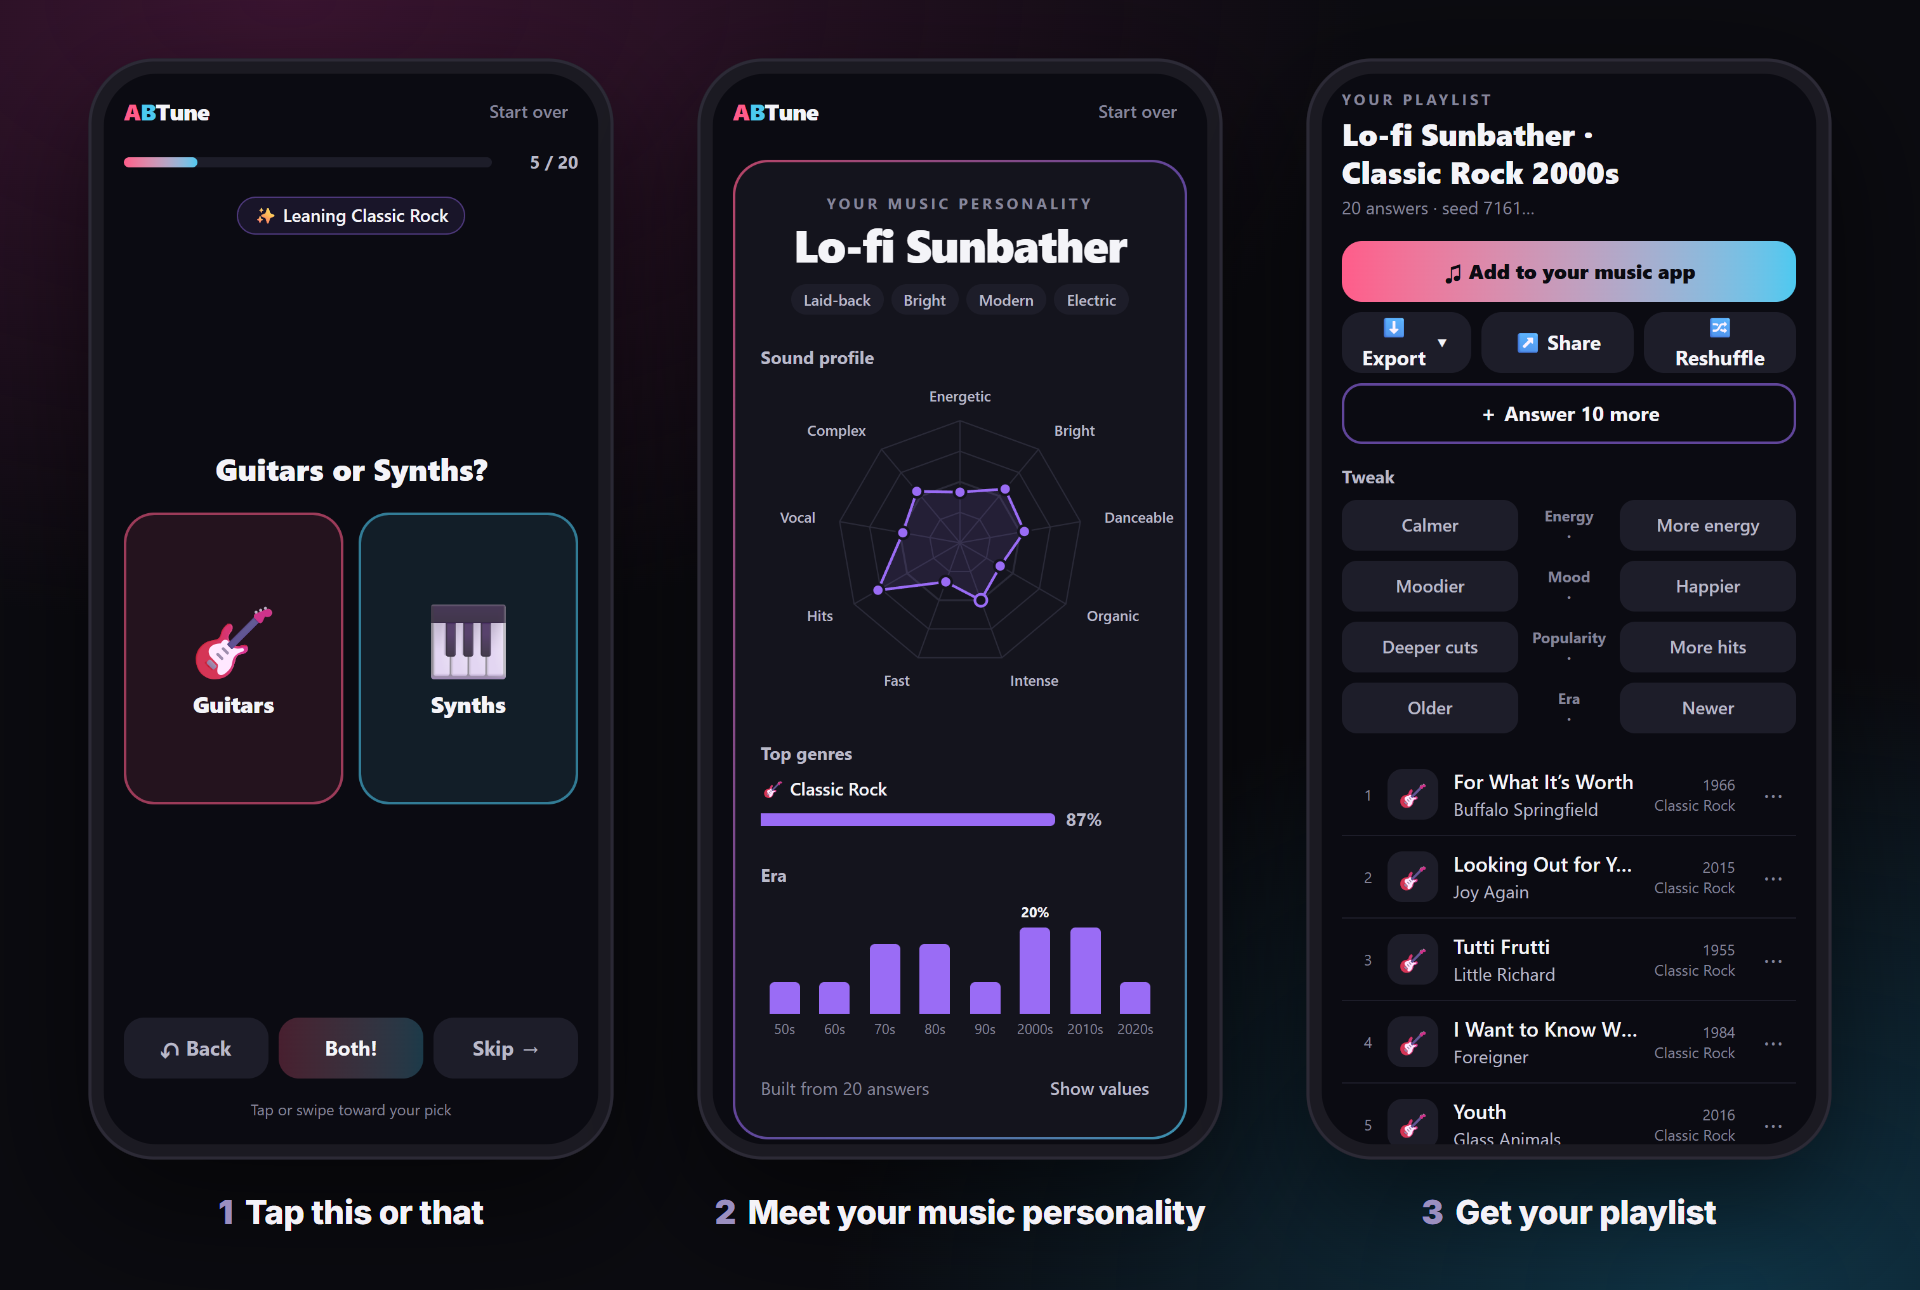
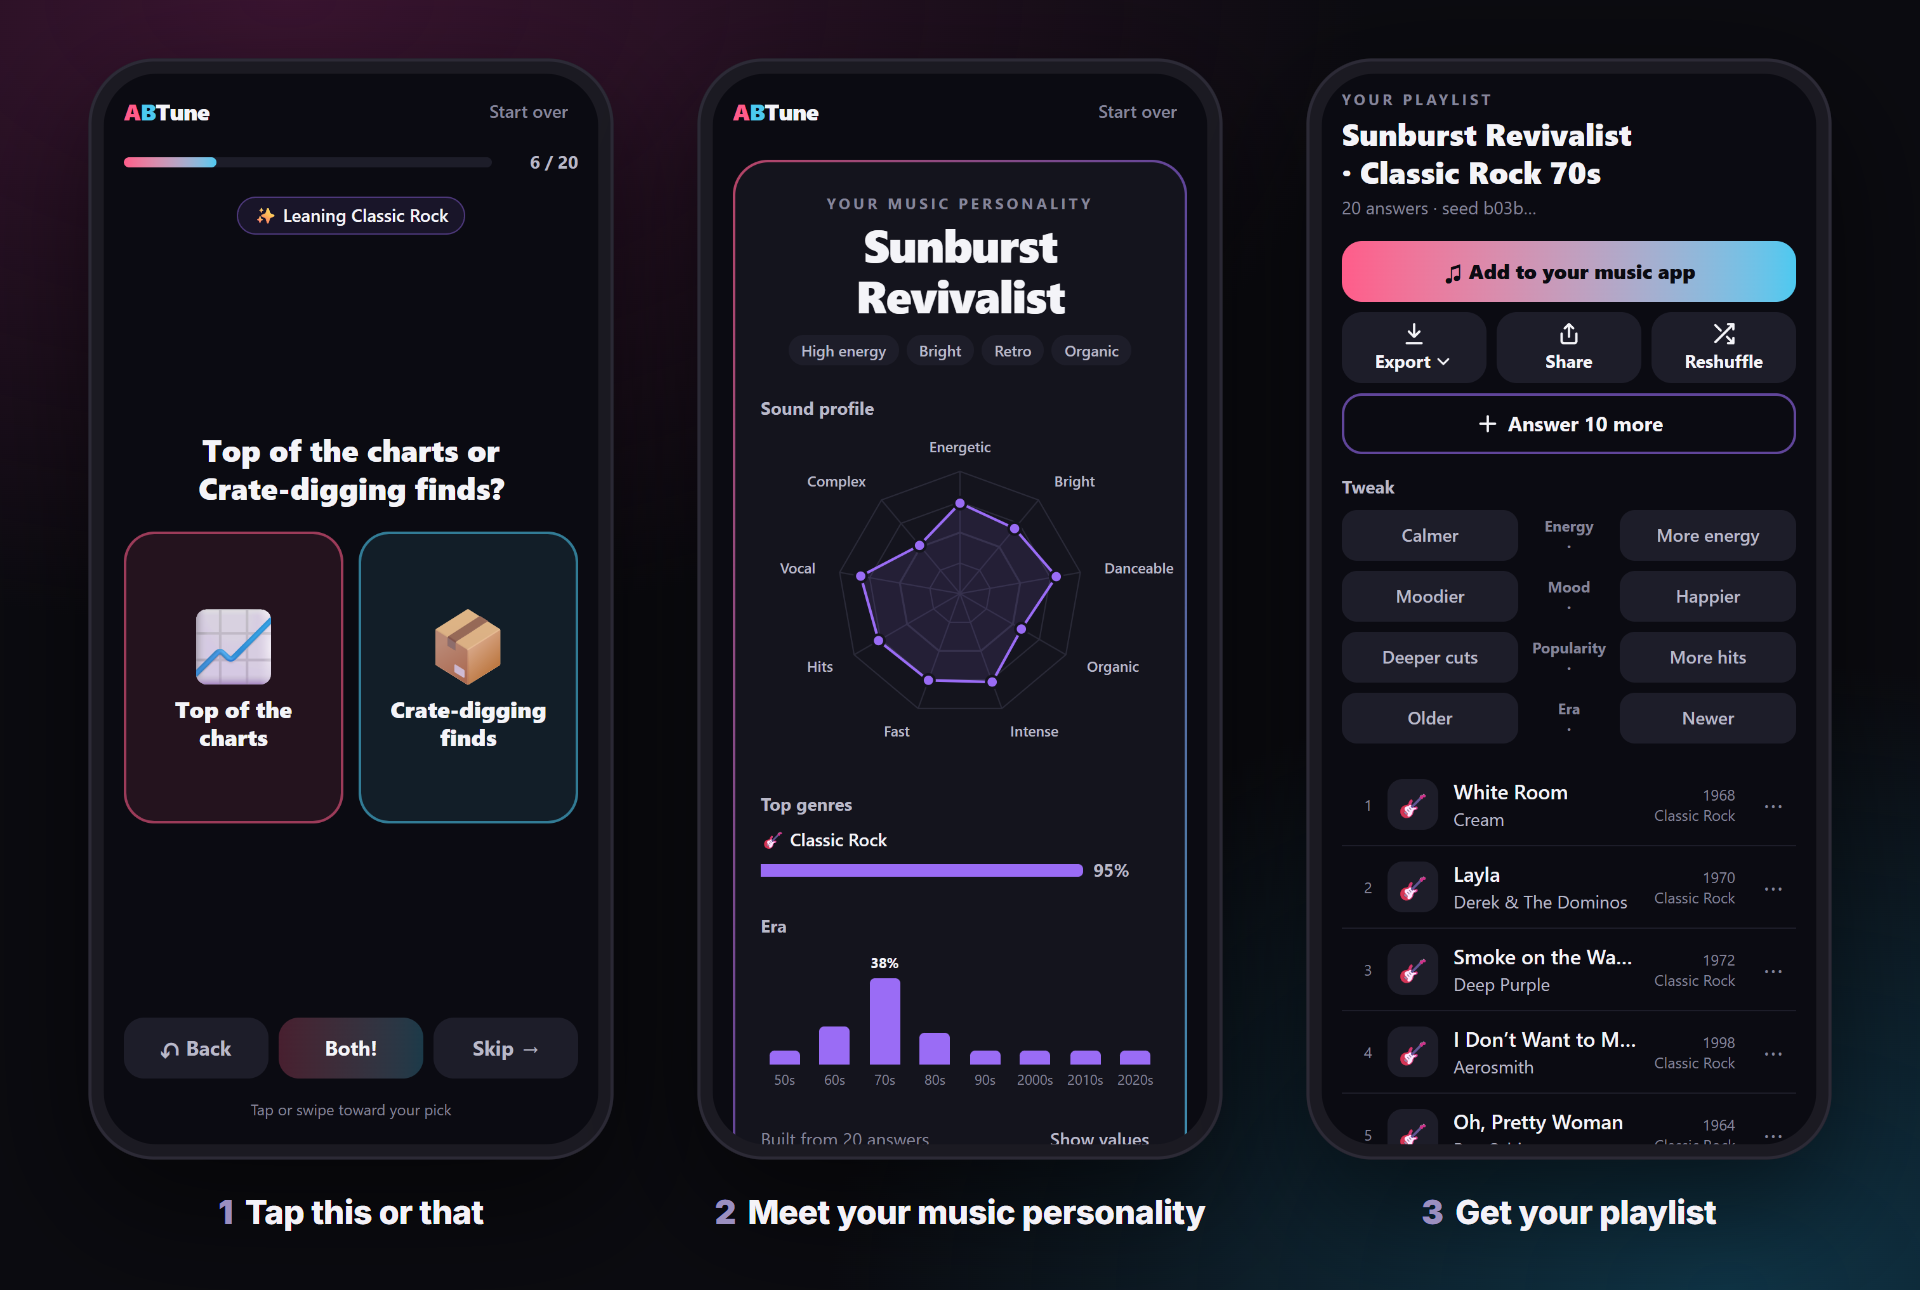
README: a demo GIF, a fresh hero, what's next; a code of conduct
- docs/media/demo.gif: 17 s of the real app on a phone, recorded from
  Chrome's screencast with a scripted listener on the full catalog:
  swipes and taps, the personality card, the playlist. 1 MB. It floats
  beside "What it does".
- docs/media/hero.png shows the current result buttons (the old one had
  the emoji arrows and a wrapped Export) and a coherent run: Sunburst
  Revivalist, a classic-rock playlist.
- "What's next" links the starter issues (#2-#8) and Discussions; the
  intro mentions adding ABTune to the home screen.
- CODE_OF_CONDUCT.md: Contributor Covenant 2.1, reports to the owner's
  email. CONTRIBUTING links it, the good first issues and Discussions.

diff --git a/CODE_OF_CONDUCT.md b/CODE_OF_CONDUCT.md
@@ -1,0 +1,83 @@
+# Contributor Covenant Code of Conduct
+
+## Our Pledge
+
+We as members, contributors, and leaders pledge to make participation in our community a harassment-free experience for everyone, regardless of age, body size, visible or invisible disability, ethnicity, sex characteristics, gender identity and expression, level of experience, education, socio-economic status, nationality, personal appearance, race, caste, color, religion, or sexual identity and orientation.
+
+We pledge to act and interact in ways that contribute to an open, welcoming, diverse, inclusive, and healthy community.
+
+## Our Standards
+
+Examples of behavior that contributes to a positive environment for our community include:
+
+* Demonstrating empathy and kindness toward other people
+* Being respectful of differing opinions, viewpoints, and experiences
+* Giving and gracefully accepting constructive feedback
+* Accepting responsibility and apologizing to those affected by our mistakes, and learning from the experience
+* Focusing on what is best not just for us as individuals, but for the overall community
+
+Examples of unacceptable behavior include:
+
+* The use of sexualized language or imagery, and sexual attention or advances of any kind
+* Trolling, insulting or derogatory comments, and personal or political attacks
+* Public or private harassment
+* Publishing others' private information, such as a physical or email address, without their explicit permission
+* Other conduct which could reasonably be considered inappropriate in a professional setting
+
+## Enforcement Responsibilities
+
+Community leaders are responsible for clarifying and enforcing our standards of acceptable behavior and will take appropriate and fair corrective action in response to any behavior that they deem inappropriate, threatening, offensive, or harmful.
+
+Community leaders have the right and responsibility to remove, edit, or reject comments, commits, code, wiki edits, issues, and other contributions that are not aligned to this Code of Conduct, and will communicate reasons for moderation decisions when appropriate.
+
+## Scope
+
+This Code of Conduct applies within all community spaces, and also applies when an individual is officially representing the community in public spaces. Examples of representing our community include using an official e-mail address, posting via an official social media account, or acting as an appointed representative at an online or offline event.
+
+## Enforcement
+
+Instances of abusive, harassing, or otherwise unacceptable behavior may be reported to the community leaders responsible for enforcement at [mrdushidush@gmail.com](mailto:mrdushidush@gmail.com). All complaints will be reviewed and investigated promptly and fairly.
+
+All community leaders are obligated to respect the privacy and security of the reporter of any incident.
+
+## Enforcement Guidelines
+
+Community leaders will follow these Community Impact Guidelines in determining the consequences for any action they deem in violation of this Code of Conduct:
+
+### 1. Correction
+
+**Community Impact**: Use of inappropriate language or other behavior deemed unprofessional or unwelcome in the community.
+
+**Consequence**: A private, written warning from community leaders, providing clarity around the nature of the violation and an explanation of why the behavior was inappropriate. A public apology may be requested.
+
+### 2. Warning
+
+**Community Impact**: A violation through a single incident or series of actions.
+
+**Consequence**: A warning with consequences for continued behavior. No interaction with the people involved, including unsolicited interaction with those enforcing the Code of Conduct, for a specified period of time. This includes avoiding interactions in community spaces as well as external channels like social media. Violating these terms may lead to a temporary or permanent ban.
+
+### 3. Temporary Ban
+
+**Community Impact**: A serious violation of community standards, including sustained inappropriate behavior.
+
+**Consequence**: A temporary ban from any sort of interaction or public communication with the community for a specified period of time. No public or private interaction with the people involved, including unsolicited interaction with those enforcing the Code of Conduct, is allowed during this period. Violating these terms may lead to a permanent ban.
+
+### 4. Permanent Ban
+
+**Community Impact**: Demonstrating a pattern of violation of community standards, including sustained inappropriate behavior, harassment of an individual, or aggression toward or disparagement of classes of individuals.
+
+**Consequence**: A permanent ban from any sort of public interaction within the community.
+
+## Attribution
+
+This Code of Conduct is adapted from the [Contributor Covenant][homepage], version 2.1, available at [https://www.contributor-covenant.org/version/2/1/code_of_conduct.html][v2.1].
+
+Community Impact Guidelines were inspired by [Mozilla's code of conduct enforcement ladder][Mozilla CoC].
+
+For answers to common questions about this code of conduct, see the FAQ at [https://www.contributor-covenant.org/faq][FAQ]. Translations are available at [https://www.contributor-covenant.org/translations][translations].
+
+[homepage]: https://www.contributor-covenant.org
+[v2.1]: https://www.contributor-covenant.org/version/2/1/code_of_conduct.html
+[Mozilla CoC]: https://github.com/mozilla/diversity
+[FAQ]: https://www.contributor-covenant.org/faq
+[translations]: https://www.contributor-covenant.org/translations

diff --git a/README.md b/README.md
@@ -6,18 +6,21 @@
 like you, picked from an open catalog of 2 million songs.
 
 **[Try it at abtune.com →](https://abtune.com)**<br>
-No login, no app, about two minutes on your phone.
+No login and nothing to install, about two minutes on your phone. Add it to your home screen and it
+opens like an app.
 
 [![CI](https://github.com/mrdushidush/abtune/actions/workflows/ci.yml/badge.svg)](https://github.com/mrdushidush/abtune/actions/workflows/ci.yml)
 [![Code: MIT](https://img.shields.io/badge/code-MIT-blue)](LICENSE)
 [![Data: CC BY-NC-SA 3.0](https://img.shields.io/badge/data-CC%20BY--NC--SA%203.0-lightgrey)](docs/DATA_LICENSES.md)
 [![Status: beta](https://img.shields.io/badge/status-beta-orange)](CHANGELOG.md)
 
-<img src="docs/media/hero.png" alt="Three phone screens: a 'Guitars or Synths?' card, a music-personality card with a sound-profile chart, and the playlist with an 'Add to your music app' button" width="900">
+<img src="docs/media/hero.png" alt="Three phone screens: a 'Top of the charts or Crate-digging finds?' card, the music-personality card 'Sunburst Revivalist' with a sound-profile chart, and a classic-rock playlist (White Room, Layla, Smoke on the Water) under an 'Add to your music app' button" width="900">
 
 </div>
 
 ## What it does
+
+<img src="docs/media/demo.gif" align="right" width="260" alt="Demo: swiping 'Bon Jovi or Britney Spears?' and three more cards, the music-personality card 'Sunburst Revivalist', then a classic-rock playlist opening with Dream On, Jailhouse Rock, La Grange and Free Bird">
 
 - **The quiz.** Pick how deep to go (10, 20, 50 or 100 cards), then tap, swipe or use the arrow
   keys: *Bon Jovi or Britney? 80s or 90s? Road trip or study session?* A hint chip shows what your
@@ -154,12 +157,27 @@ or the CLI. Use erasable TypeScript only (no `enum`, no `namespace`) and `.ts` i
 | `deploy` | The kit abtune.com runs on: Docker Compose with Caddy or a Cloudflare Tunnel. |
 | `docs` | The original brief, the ADR, the decision log, data licenses, catalog and eval reports. |
 
+## What's next
+
+- **Compare with a friend** ([#7](https://github.com/mrdushidush/abtune/issues/7)): both sound
+  profiles on one chart, a match score, and a blended playlist to share back.
+- **French and Spanish** ([#6](https://github.com/mrdushidush/abtune/issues/6)).
+- **The MCP server on npx** ([#8](https://github.com/mrdushidush/abtune/issues/8)): one line in
+  Claude Code, no clone.
+- **More genres in the quiz:** cards for blues, reggae, K-pop and country fans
+  ([#2](https://github.com/mrdushidush/abtune/issues/2)–[#5](https://github.com/mrdushidush/abtune/issues/5)).
+
+Star or watch the repo to follow along, and say what you'd want next in
+[Discussions](https://github.com/mrdushidush/abtune/discussions).
+
 ## Contribute
 
 The most useful contribution is **better questions**, and they're plain YAML, no code needed. Start
-with [CONTRIBUTING.md](CONTRIBUTING.md) and [docs/QUESTION_AUTHORING.md](docs/QUESTION_AUTHORING.md).
-Got a playlist that isn't you? [Tell us](https://github.com/mrdushidush/abtune/issues/new/choose):
-that report is the fastest way to tune the quiz.
+with [CONTRIBUTING.md](CONTRIBUTING.md) and [docs/QUESTION_AUTHORING.md](docs/QUESTION_AUTHORING.md);
+the [good first issues](https://github.com/mrdushidush/abtune/labels/good%20first%20issue) are
+scoped for a first pull request. Got a playlist that isn't you?
+[Tell us](https://github.com/mrdushidush/abtune/issues/new/choose): that report is the fastest way
+to tune the quiz. Everyone taking part follows the [code of conduct](CODE_OF_CONDUCT.md).
 
 ## Built with Claude Code
 

diff --git a/docs/DECISIONS.md b/docs/DECISIONS.md
@@ -369,3 +369,4 @@ Three reviewer agents looked at ABTune before launch from three sides: a develop
   - **Icon (owner's pick of three):** the wordmark's AB, pink A and blue B, on the ink tile with the link-preview image's two corner glows. The letterforms are drawn as SVG paths, not set in a font, so no font licence is involved. The PNGs are rendered from the same paths in headless Chrome: 192 and 512 with rounded corners, a full-bleed 180 for iOS, and a 512 maskable one with the mark inside Android's safe circle.
   - The CSP's `img-src` dropped `data:`: the emoji favicon was its only user.
 - 2026-10-07 · **Result buttons on a phone:** Export, Share and Reshuffle are a row of three (two on a shared playlist), with the icon over the label below 640 px. At 360–390 px, Export used to wrap onto four lines. The export menu hangs from the whole row on a phone. Arrow characters (⬇ ↗ 🔀) were drawn as emoji on Windows and Android, so the buttons use line icons (`components/Icon.tsx`). "Add to your music app" stays full width above them.
+- 2026-10-07 · **Community setup (owner):** a code of conduct (Contributor Covenant 2.1; reports go to the owner's email), GitHub Discussions on, and seven starter issues from the open items: cards for blues, reggae, K-pop and country (good first issues; they have the fewest cards, 5–9 each against 19–45 for the big genres), French and Spanish, compare with a friend, and the MCP server on npx. The README has a "What's next" section pointing at them, a demo GIF (recorded from the real app with a scripted listener, the full catalog, 17 s, 1 MB) and a refreshed hero.

diff --git a/CONTRIBUTING.md b/CONTRIBUTING.md
@@ -51,3 +51,7 @@ The linter enforces most of these. [docs/QUESTION_AUTHORING.md](docs/QUESTION_AU
 - Keep pull requests focused, and make sure CI passes.
 
 By contributing you agree your contributions are licensed under the [MIT License](LICENSE).
+
+Everyone taking part in ABTune's issues, pull requests and discussions is expected to follow the [code of conduct](CODE_OF_CONDUCT.md).
+
+Looking for somewhere to start? Issues labelled [good first issue](https://github.com/mrdushidush/abtune/labels/good%20first%20issue) are scoped for a first pull request, and ideas and questions are welcome in [Discussions](https://github.com/mrdushidush/abtune/discussions).
